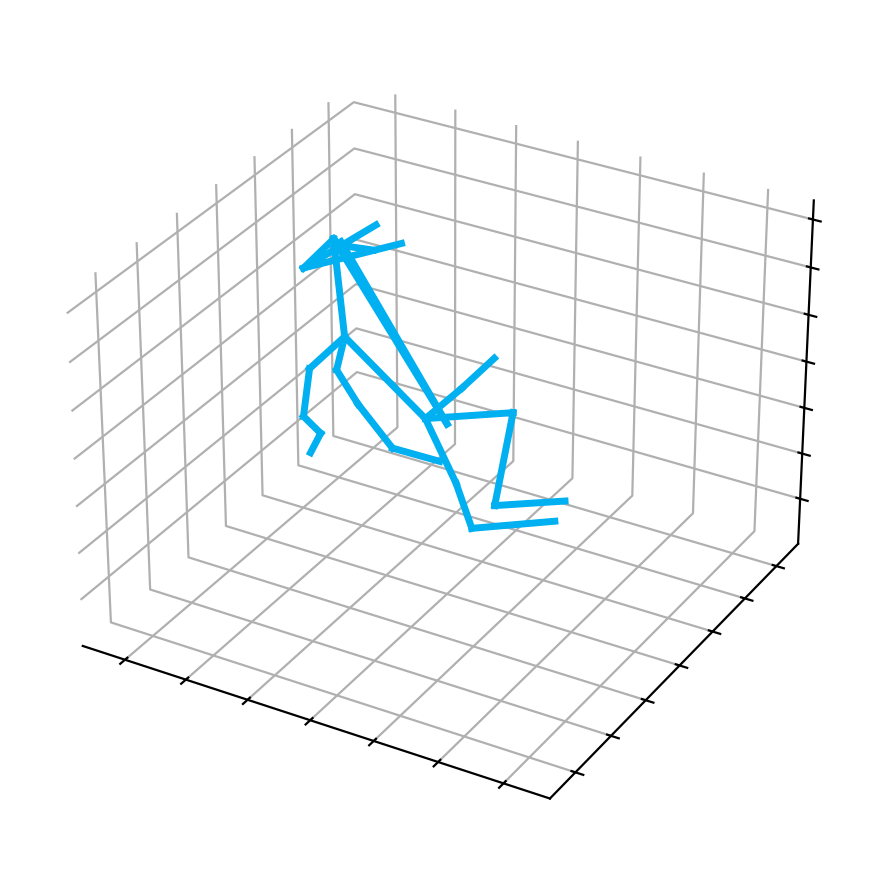
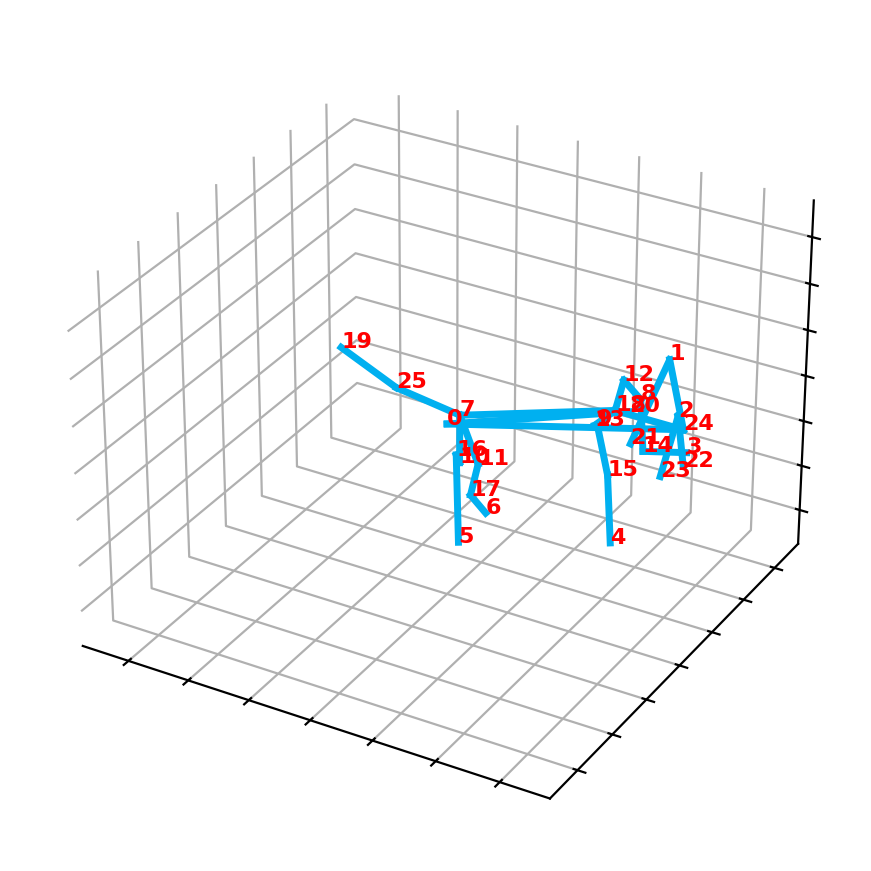
debug for 3D pose (index 0)

diff --git a/demo/animals/vis_animals.py b/demo/animals/vis_animals.py
@@ -67,78 +67,192 @@ max_individuals = 1  # @param {type:"slider", min:1, max:30, step:1}
 
 image_path = "./images/dog.JPEG"
 
+def compute_limb_regularization_matrix(gt_3d):
+    """
+    计算正则化矩阵，使指定的腿部连接平均方向朝向竖直向上(0,0,1)
+    
+    Args:
+        gt_3d: numpy array of shape (J, 3) - 3D pose
+        
+    Returns:
+        R: 3x3 rotation matrix to align limbs to vertical
+    """
+    # 定义腿部连接对 (起点, 终点)
+    limb_connections = [
+        (8, 14),   # left_front_thigh → left_front_knee
+        (9, 15),   # right_front_thigh → right_front_knee
+        (10, 16),  # left_back_thigh → left_back_knee
+        (11, 17),  # right_back_thigh → right_back_knee
+    ]
+    
+    # 计算所有连接的方向向量
+    # 注意：这些连接是从近端（大腿/膝盖）到远端（爪子），方向是向下的
+    # 为了让它们朝向竖直向上，我们需要反转方向
+    limb_vectors = []
+    for start_idx, end_idx in limb_connections:
+        # 反转方向：从end到start（从爪子指向身体，即向上）
+        vec = gt_3d[start_idx] - gt_3d[end_idx]
+        # 归一化
+        vec_norm = np.linalg.norm(vec)
+        if vec_norm > 1e-6:  # 避免除零
+            vec = vec / vec_norm
+            limb_vectors.append(vec)
+    
+    if len(limb_vectors) == 0:
+        return np.eye(3)  # 如果没有有效向量，返回单位矩阵
+    
+    # 计算平均方向
+    avg_direction = np.mean(limb_vectors, axis=0)
+    avg_direction = avg_direction / (np.linalg.norm(avg_direction) + 1e-8)
+    
+    # 目标方向：竖直向上 (0, 0, 1)
+    target_direction = np.array([0.0, 0.0, 1.0])
+    
+    # 计算旋转矩阵，将avg_direction对齐到target_direction
+    # 使用Rodrigues公式
+    v = np.cross(avg_direction, target_direction)
+    c = np.dot(avg_direction, target_direction)
+    
+    # 如果两个向量已经对齐或相反
+    if np.linalg.norm(v) < 1e-6:
+        if c > 0:
+            return np.eye(3)  # 已经对齐
+        else:
+            # 相反方向，旋转180度
+            # 找一个垂直轴
+            if abs(avg_direction[0]) < 0.9:
+                axis = np.array([1.0, 0.0, 0.0])
+            else:
+                axis = np.array([0.0, 1.0, 0.0])
+            axis = axis - avg_direction * np.dot(axis, avg_direction)
+            axis = axis / np.linalg.norm(axis)
+            return 2 * np.outer(axis, axis) - np.eye(3)
+    
+    # Rodrigues旋转公式
+    s = np.linalg.norm(v)
+    kmat = np.array([[0, -v[2], v[1]],
+                     [v[2], 0, -v[0]],
+                     [-v[1], v[0], 0]])
+    
+    R = np.eye(3) + kmat + kmat @ kmat * ((1 - c) / (s ** 2))
+    
+    return R
+
+def apply_regularization(pose_3d, R):
+    """
+    应用正则化矩阵到3D姿态
+    
+    Args:
+        pose_3d: numpy array of shape (J, 3)
+        R: 3x3 rotation matrix
+        
+    Returns:
+        regularized pose_3d: numpy array of shape (J, 3)
+    """
+    return (R @ pose_3d.T).T
+
 def get_pose2D(path, output_dir, type):
 
     print('\nGenerating 2D pose...')
     
-    predictions = superanimal_analyze_images(
-        superanimal_name,
-        model_name,
-        detector_name,
-        path,
-        max_individuals,
-        out_folder=output_dir
-    )
-    print("predictions:", predictions)
+    # Check if this is the special debug case for 000000119761_horse
+    filename = Path(path).stem
+    is_debug_case = "000000119761_horse" in filename
     
-    # get the 2D keypoints from the predictions
-    xy_preds = {}
-    # predictions is a dict: {image_path: {"bodyparts": (N, K, 3), "bboxes": ..., "bbox_scores": ...}}
-    for img_path, payload in predictions.items():
-        bodyparts = payload.get("bodyparts")
-        if bodyparts is None:
-            continue
-        # bodyparts shape: (num_individuals, num_keypoints, 3) -> [:, :, :2] keeps x,y
-        xy_preds[img_path] = bodyparts[..., :2]
+    if is_debug_case:
+        print(f"DEBUG MODE: Using provided 2D pose for {filename}")
+        # User provided 2D pose (26 keypoints, x, y coordinates, ignoring the last dimension)
+        provided_pose = np.array([
+            [361, 230], [361, 237], [363, 279], [257, 359], [251, 374],
+            [164, 365], [68, 372], [99, 206], [247, 266], [253, 285],
+            [127, 275], [101, 285], [267, 217], [268, 229], [273, 318],
+            [250, 340], [128, 311], [76, 305], [313, 220], [48, 310],
+            [351, 203], [352, 210], [340, 257], [340, 261], [373, 276],
+            [55, 247]
+        ], dtype=np.float32)
+        
+        # Reshape to match expected format: (1, 26, 2) for single individual
+        provided_pose = provided_pose.reshape(1, 26, 2)
+        
+        # Create xy_preds dict with the provided pose
+        xy_preds = {path: provided_pose}
+        print(f"Using provided 2D pose with shape: {provided_pose.shape}")
+    else:
+        # Normal prediction flow
+        predictions = superanimal_analyze_images(
+            superanimal_name,
+            model_name,
+            detector_name,
+            path,
+            max_individuals,
+            out_folder=output_dir
+        )
+        print("predictions:", predictions)
+        
+        # get the 2D keypoints from the predictions
+        xy_preds = {}
+        # predictions is a dict: {image_path: {"bodyparts": (N, K, 3), "bboxes": ..., "bbox_scores": ...}}
+        for img_path, payload in predictions.items():
+            bodyparts = payload.get("bodyparts")
+            if bodyparts is None:
+                continue
+            # bodyparts shape: (num_individuals, num_keypoints, 3) -> [:, :, :2] keeps x,y
+            xy_preds[img_path] = bodyparts[..., :2]
 
     print("2D keypoints (x,y) by image:")
     for img_path, xy in xy_preds.items():
         print(f"{img_path}: shape {xy.shape}")
     
-    # now map the keypoints to a different set of keypoints (used in Animal3D)
-    # keypoint mapping from quadruped80K super keypotints to animal3d keypoints
-    keypoint_mapping = {"quadruped80k":[10, 5, -1, 26, 29, 30, 35, 22, 24, 27, 31, 32, -1, -1, 25, 28, 33, 34, 15, 23, 11, 6, 4, 3, 0, -1]}
-    
-    # for the keypoint_mapping, -1 indicates that there is no corresponding keypoint in the source set, but we can interpolate 
-    # for index 2, we can interpolate between keypoints 3 and 4 in the source set to get a better estimate of the missing keypoint
-    # for index 25, we can interpolate between keypoints 22 and 23 in the source set
-    # for index 12, we can interpolate between keypoints 24 and 19 in the source set
-    # for index 13, we can interpolate between keypoints 27 and 19 in the source set
-    
-    # Define interpolation rules for -1 indices: {target_idx: (source_idx1, source_idx2)}
-    interpolation_rules = {
-        2: (3, 4),      # interpolate between source keypoints 3 and 4
-        12: (24, 19),   # interpolate between source keypoints 24 and 19
-        13: (27, 19),   # interpolate between source keypoints 27 and 19
-        25: (22, 23),   # interpolate between source keypoints 22 and 23
-    }
-    
-    # map the keypoints
-    mapped_keypoints = {}
-    mapping_indices = keypoint_mapping["quadruped80k"]
+    # For debug case, the provided pose is already in Animal3D format (26 keypoints)
+    # So we skip the mapping step
+    if is_debug_case:
+        print("DEBUG MODE: Skipping keypoint mapping (already in Animal3D format)")
+        mapped_keypoints = xy_preds
+    else:
+        # now map the keypoints to a different set of keypoints (used in Animal3D)
+        # keypoint mapping from quadruped80K super keypotints to animal3d keypoints
+        keypoint_mapping = {"quadruped80k":[10, 5, -1, 26, 29, 30, 35, 22, 24, 27, 31, 32, -1, -1, 25, 28, 33, 34, 15, 23, 11, 6, 4, 3, 0, -1]}
+        
+        # for the keypoint_mapping, -1 indicates that there is no corresponding keypoint in the source set, but we can interpolate 
+        # for index 2, we can interpolate between keypoints 3 and 4 in the source set to get a better estimate of the missing keypoint
+        # for index 25, we can interpolate between keypoints 22 and 23 in the source set
+        # for index 12, we can interpolate between keypoints 24 and 19 in the source set
+        # for index 13, we can interpolate between keypoints 27 and 19 in the source set
+        
+        # Define interpolation rules for -1 indices: {target_idx: (source_idx1, source_idx2)}
+        interpolation_rules = {
+            2: (3, 4),      # interpolate between source keypoints 3 and 4
+            12: (24, 19),   # interpolate between source keypoints 24 and 19
+            13: (27, 19),   # interpolate between source keypoints 27 and 19
+            25: (22, 23),   # interpolate between source keypoints 22 and 23
+        }
+        
+        # map the keypoints
+        mapped_keypoints = {}
+        mapping_indices = keypoint_mapping["quadruped80k"]
 
-    for img_path, xy in xy_preds.items():
-        # xy shape: (num_individuals, num_keypoints, 2)
-        num_individuals, num_keypoints, _ = xy.shape
-        num_target_keypoints = len(mapping_indices)
-        
-        # Initialize mapped array with NaN or zeros
-        mapped_xy = np.full((num_individuals, num_target_keypoints, 2), np.nan)
-        
-        for target_idx, source_idx in enumerate(mapping_indices):
-            if source_idx != -1 and source_idx < num_keypoints:
-                # Copy the keypoint from source to target position
-                mapped_xy[:, target_idx, :] = xy[:, source_idx, :]
-            elif source_idx == -1 and target_idx in interpolation_rules:
-                # Perform interpolation for -1 indices
-                src1, src2 = interpolation_rules[target_idx]
-                if src1 < num_keypoints and src2 < num_keypoints:
-                    # Interpolate as the average of the two source keypoints
-                    mapped_xy[:, target_idx, :] = (xy[:, src1, :] + xy[:, src2, :]) / 2.0
-                    print(f"Interpolated keypoint {target_idx} from source keypoints {src1} and {src2}")
-        
-        mapped_keypoints[img_path] = mapped_xy
-        print(f"Mapped {img_path}: {xy.shape} -> {mapped_xy.shape}")
+        for img_path, xy in xy_preds.items():
+            # xy shape: (num_individuals, num_keypoints, 2)
+            num_individuals, num_keypoints, _ = xy.shape
+            num_target_keypoints = len(mapping_indices)
+            
+            # Initialize mapped array with NaN or zeros
+            mapped_xy = np.full((num_individuals, num_target_keypoints, 2), np.nan)
+            
+            for target_idx, source_idx in enumerate(mapping_indices):
+                if source_idx != -1 and source_idx < num_keypoints:
+                    # Copy the keypoint from source to target position
+                    mapped_xy[:, target_idx, :] = xy[:, source_idx, :]
+                elif source_idx == -1 and target_idx in interpolation_rules:
+                    # Perform interpolation for -1 indices
+                    src1, src2 = interpolation_rules[target_idx]
+                    if src1 < num_keypoints and src2 < num_keypoints:
+                        # Interpolate as the average of the two source keypoints
+                        mapped_xy[:, target_idx, :] = (xy[:, src1, :] + xy[:, src2, :]) / 2.0
+                        print(f"Interpolated keypoint {target_idx} from source keypoints {src1} and {src2}")
+            
+            mapped_keypoints[img_path] = mapped_xy
+            print(f"Mapped {img_path}: {xy.shape} -> {mapped_xy.shape}")
 
     print('Generating 2D pose successful!')
 
@@ -288,6 +402,9 @@ def get_3D_pose_from_image(args, keypoints, i, img, model, output_dir):
         input_2D_no = keypoints[0][i]
         input_2D_no = np.expand_dims(input_2D_no, axis=0)
     
+    # Save original 2D coordinates for visualization (before normalization)
+    input_2D_original = input_2D_no.copy()
+    
     joints_left = [4, 5, 6, 11, 12, 13]
     joints_right = [1, 2, 3, 14, 15, 16]
 
@@ -329,12 +446,65 @@ def get_3D_pose_from_image(args, keypoints, i, img, model, output_dir):
     output_3D[:, :, 0, :] = 0
     post_out = output_3D[0, 0].cpu().detach().numpy()
 
-    rot = [0.1407056450843811, -0.1500701755285263, -0.755240797996521, 0.6223280429840088]
-    rot = np.array(rot, dtype='float32')
-    post_out = camera_to_world(post_out, R=rot, t=0)
-    post_out[:, 2] -= np.min(post_out[:, 2])
+    # rot = [0.1407056450843811, -0.1500701755285263, -0.755240797996521, 0.6223280429840088]
+    # rot = np.array(rot, dtype='float32')
+    # post_out = camera_to_world(post_out, R=rot, t=0)
+    # post_out[:, 2] -= np.min(post_out[:, 2])
 
     input_2D_no = input_2D_no[args.pad]
+
+    # Apply limb regularization
+    R_reg = compute_limb_regularization_matrix(post_out)
+    post_out = apply_regularization(post_out, R_reg)
+    
+    # Print debug info for first frame
+    if i == 0:
+        print("\n=== Regularization Debug Info ===")
+        print(f"Rotation matrix R:\n{R_reg}")
+        
+        # 验证正则化后的平均方向
+        limb_connections = [
+            (8, 14), (9, 15), (10, 16), (11, 17)
+        ]
+        limb_vectors_after = []
+        for start_idx, end_idx in limb_connections:
+            vec = post_out[start_idx] - post_out[end_idx]
+            vec_norm = np.linalg.norm(vec)
+            if vec_norm > 1e-6:
+                vec = vec / vec_norm
+                limb_vectors_after.append(vec)
+        
+        if len(limb_vectors_after) > 0:
+            avg_dir_after = np.mean(limb_vectors_after, axis=0)
+            avg_dir_after = avg_dir_after / (np.linalg.norm(avg_dir_after) + 1e-8)
+            print(f"Average limb direction after regularization: {avg_dir_after}")
+            print(f"Target direction: [0, 0, 1]")
+            print(f"Alignment (dot product): {np.dot(avg_dir_after, np.array([0, 0, 1])):.4f}")
+        print("================================\n")
+
+    ## Save 2D pose on image (similar to visualize_animal_poses.py)
+    if img is not None:
+        height, width = img_size[0], img_size[1]
+        img_copy = img.copy()
+        
+        # Use original 2D coordinates (before normalization)
+        vals = input_2D_original[args.pad] if input_2D_original.shape[0] > args.pad else input_2D_original[0]
+        vals = np.reshape(vals, (26, 2))
+        
+        # Animal skeleton connections (26 joints)
+        I = np.array([24, 24, 1, 0, 24, 2, 2, 24, 18, 18, 12, 13, 8, 9, 14, 15, 18, 7, 7, 10, 11, 16, 17, 7, 25])
+        J = np.array([0, 1, 21, 20, 2, 22, 23, 18, 12, 13, 8, 9, 14, 15, 3, 4, 7, 10, 11, 16, 17, 5, 6, 25, 19])
+        
+        for j in np.arange(len(I)):
+            pt1 = (int(vals[I[j], 0]), int(vals[I[j], 1]))
+            pt2 = (int(vals[J[j], 0]), int(vals[J[j], 1]))
+            cv2.line(img_copy, pt1, pt2, (240, 176, 0), 2, cv2.LINE_AA)  # Anti-aliasing
+        
+        # Save 2D image directly using cv2
+        output_dir_2D_img = output_dir + 'pose2D_on_image/'
+        os.makedirs(output_dir_2D_img, exist_ok=True)
+        cv2.imwrite(f'{output_dir_2D_img}{i:04d}_2d.png', img_copy)
+        print(f"Saved 2D pose on image to {output_dir_2D_img}{i:04d}_2d.png")
 
     ## Save 3D visualization
     fig = plt.figure(figsize=(9.6, 5.4))
@@ -365,6 +535,11 @@ def show3Dpose(vals, ax, color=(0/255, 176/255, 240/255), world=True, linewidth=
     for i in np.arange(len(I)):
         x, y, z = [np.array([vals[I[i], j], vals[J[i], j]]) for j in range(3)]
         ax.plot(x, y, z, lw=linewidth, color=color)
+    
+    # Plot keypoint indices
+    for i in range(len(vals)):
+        ax.text(vals[i, 0], vals[i, 1], vals[i, 2], str(i), 
+                color='red', fontsize=8, weight='bold')
     
     # Compute dynamic limits based on pose size
     xroot, yroot, zroot = vals[0, 0], vals[0, 1], vals[0, 2]
